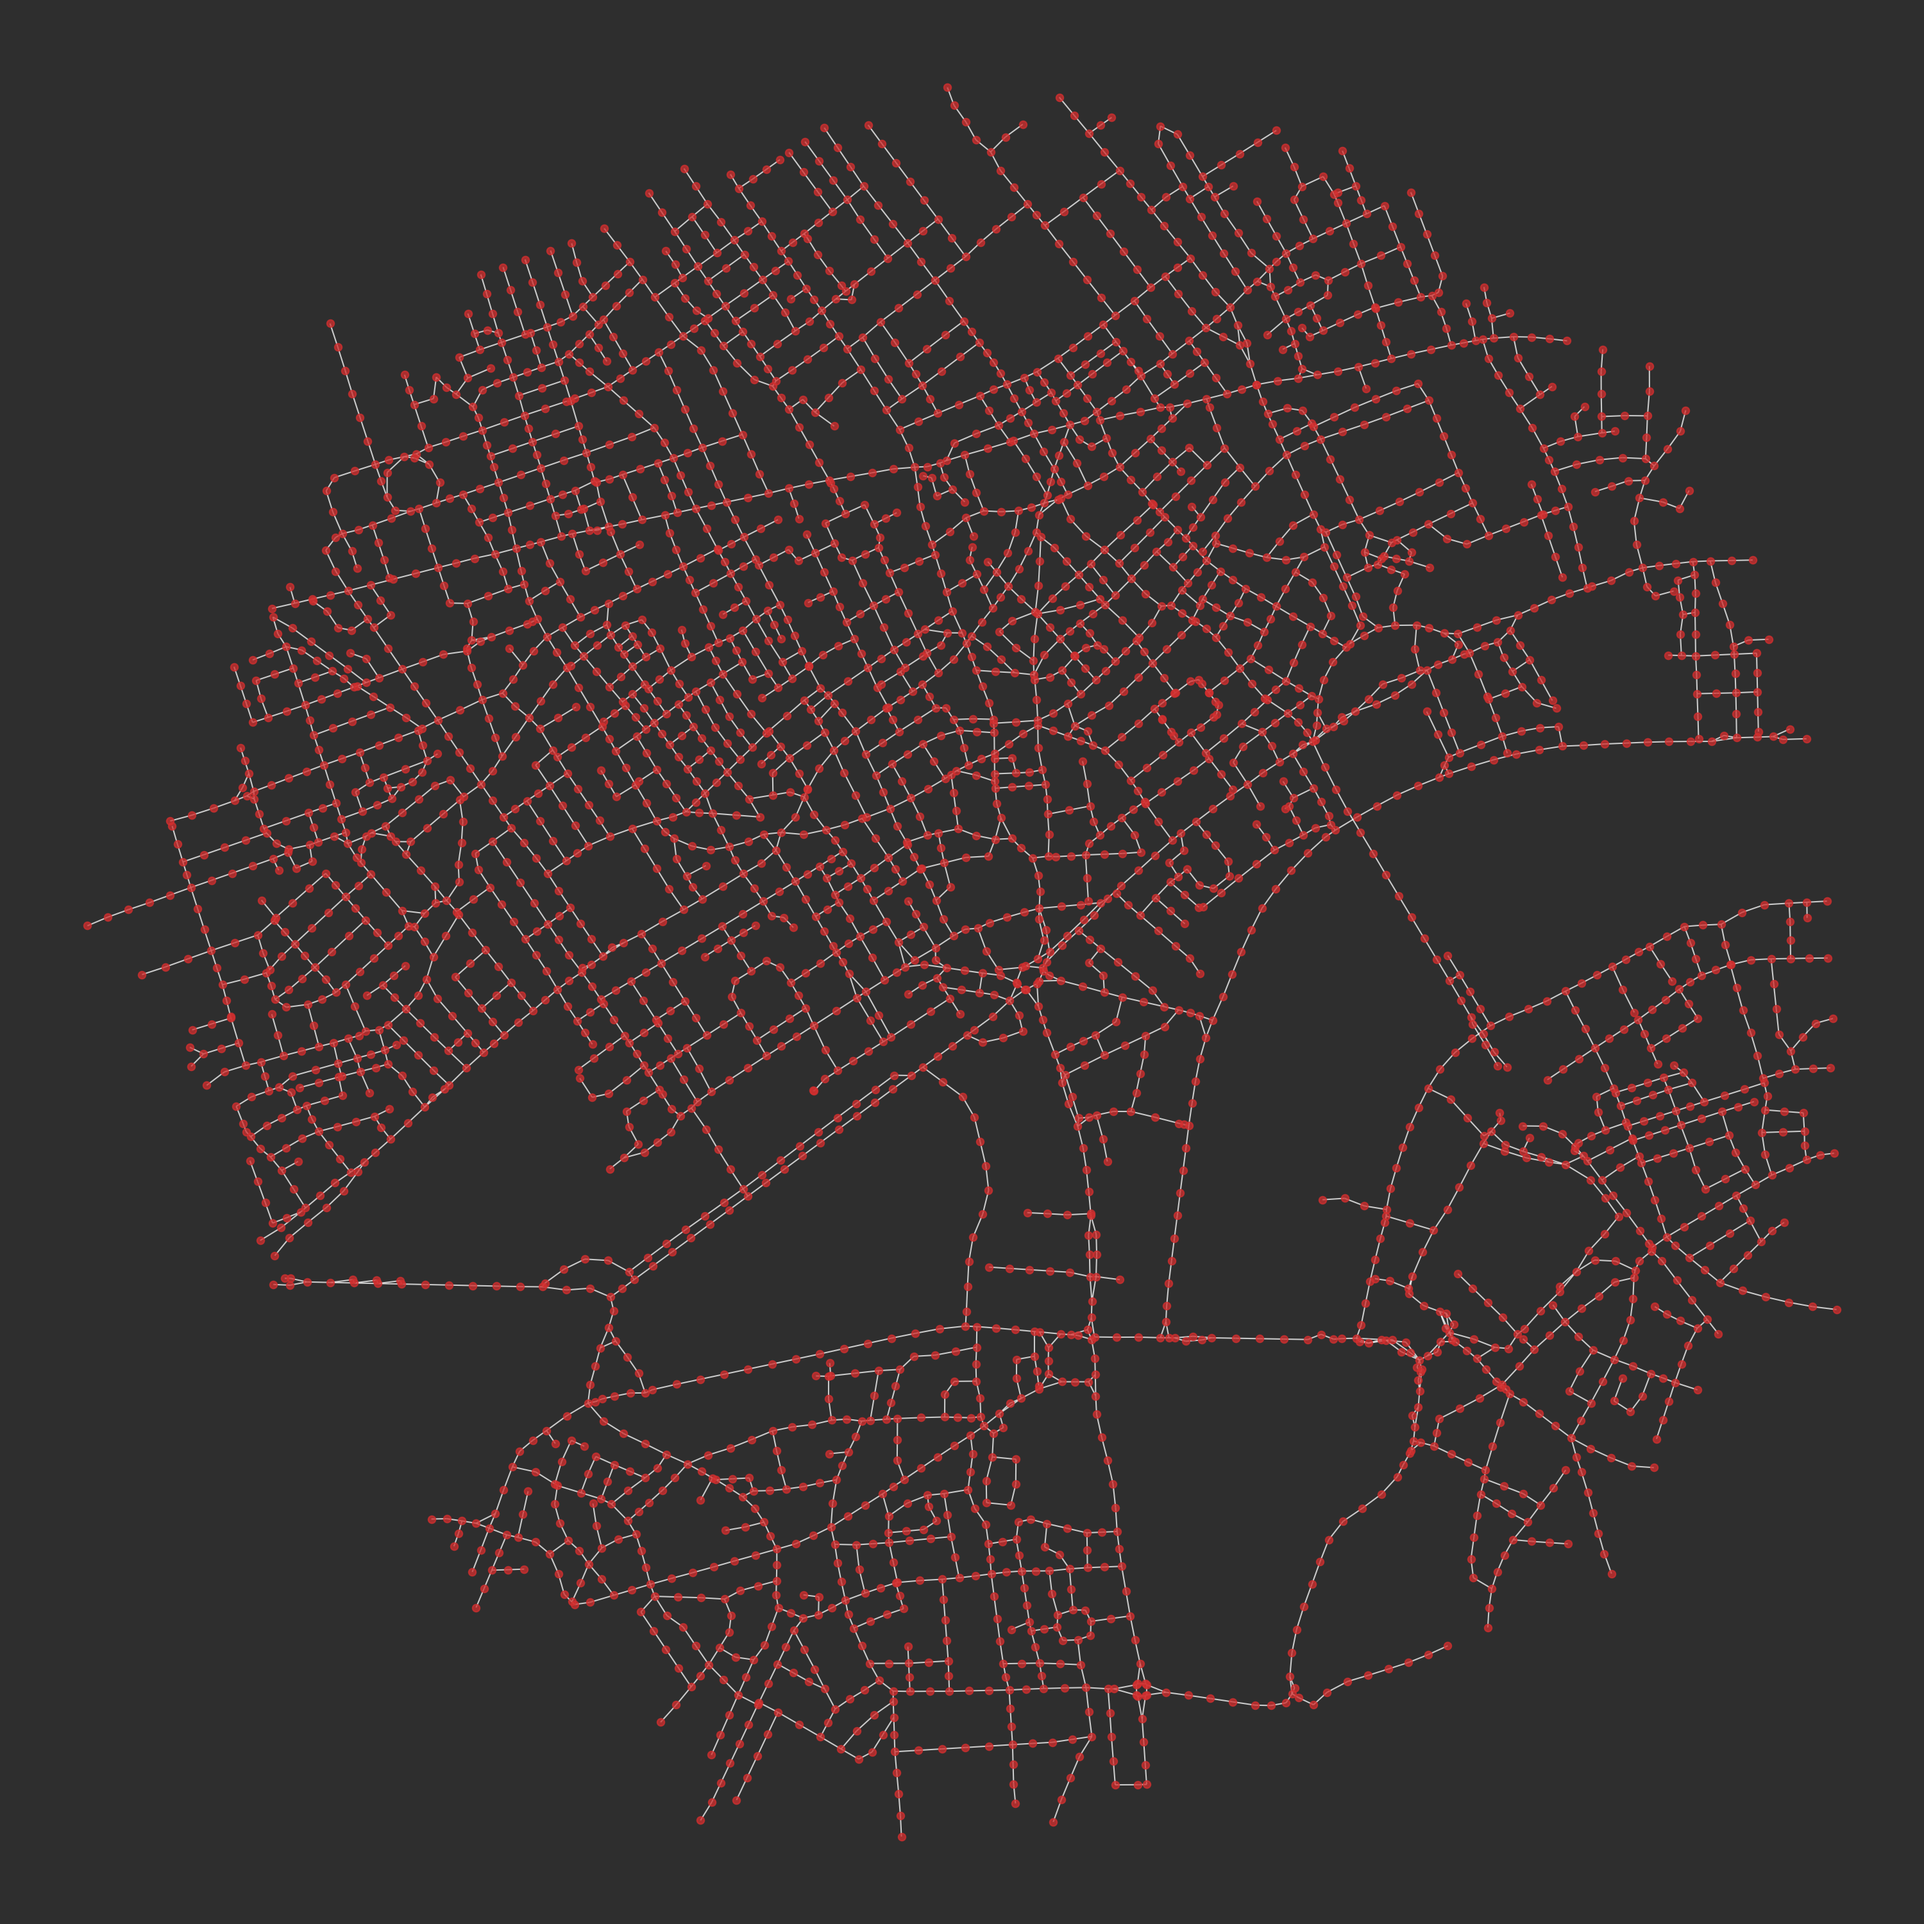
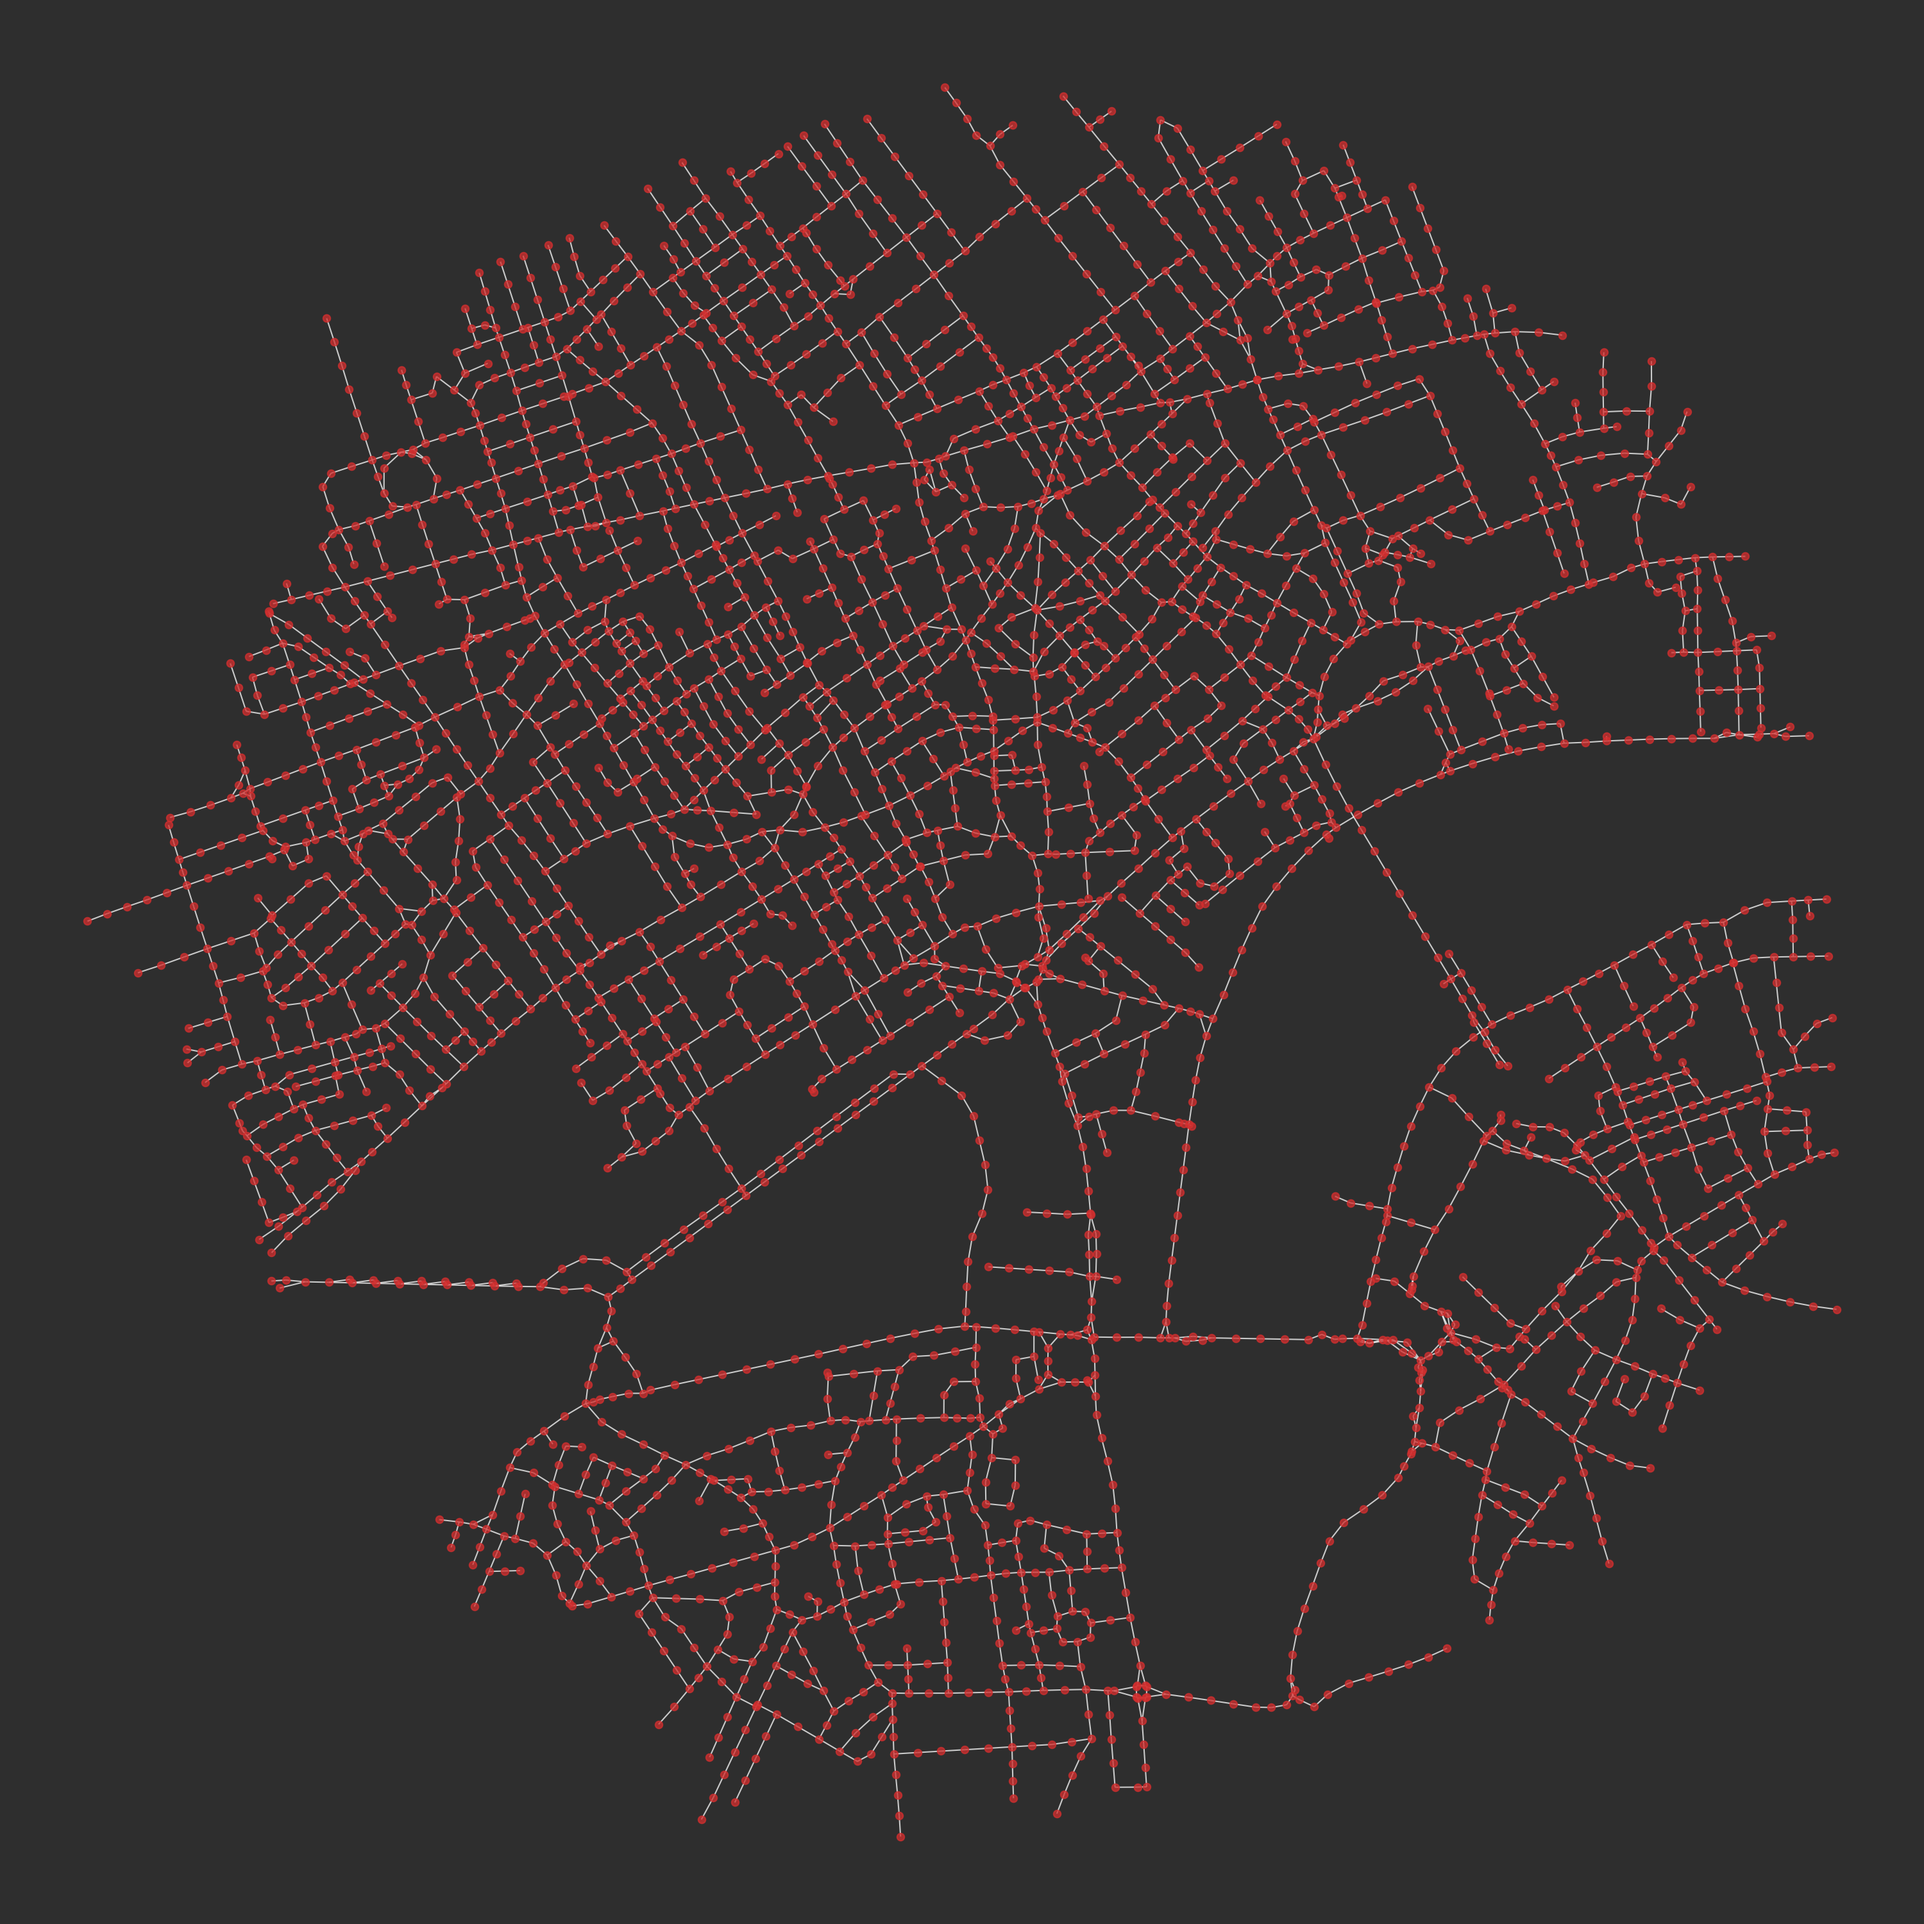
Docs.

diff --git a/docs/images/plots/guides/cleaning/plot.py b/docs/images/plots/guides/cleaning/plot.py
@@ -47,14 +47,14 @@ plt.clf()
 plot.plot_nX(G_utm, 'guides/cleaning/graph_raw.png', dpi=150, figsize=(20, 20))
 
 G_messy = graphs.nX_simple_geoms(G_utm)
-G_messy = graphs.nX_remove_filler_nodes(G_messy)
 G_messy = graphs.nX_remove_dangling_nodes(G_messy)
+G_messy = graphs.nX_remove_filler_nodes(G_messy)
 plt.cla()
 plt.clf()
 plot.plot_nX(G_messy, 'guides/cleaning/graph_topo.png', dpi=150, figsize=(20, 20))
 
-G_messy_decomp = graphs.nX_decompose(G_messy, 50)
-G_clean_parallel = graphs.nX_consolidate_parallel(G_messy_decomp)
+G_messy = graphs.nX_decompose(G_messy, 50)
+G_messy = graphs.nX_consolidate_parallel(G_messy)
 plt.cla()
 plt.clf()
-plot.plot_nX(G_clean_parallel, 'guides/cleaning/graph_consolidated.png', dpi=150, figsize=(20, 20))
+plot.plot_nX(G_messy, 'guides/cleaning/graph_consolidated.png', dpi=150, figsize=(20, 20))

diff --git a/docs/guide/cleaning.md b/docs/guide/cleaning.md
@@ -2,8 +2,8 @@ Graph cleaning
 ==============
 
 Certain sources of street network data offer high quality representations that work well for network analysis algorithms. The Ordnance Survey's [OS Open Roads](https://www.ordnancesurvey.co.uk/business-and-government/products/os-open-roads.html) dataset is a great example of such a dataset:
-- The network has been simplified to its essential topological structure: i.e. unnecessarily complex representations of intersections; on-ramps; split roadways; etc. have been reduced to a simpler representation concurring more readily with the core topological structure of street networks. Network representations focusing on completeness (e.g. for route way-finding, see [OS ITN Layer](https://www.ordnancesurvey.co.uk/business-and-government/help-and-support/products/itn-layer.html)) introduce an unnecessary level of complexity, serving to hinder rather than help network analysis algorithms: i.e. the extra extraneous detail can introduce unintuitive or irregular outcomes for shortest-path calculations;
-- The topology of the network is kept distinct from the geometry of the streets. Oftentimes, as can be seen with [Open Street Map](https://www.openstreetmap.org), extra nodes have been added to streets for the purpose of representing geometric twists and turns along a roadway. These extra nodes do not represent the topological structure of the network (e.g. intersections) and can thus lead to substantial distortions in the derivation of network centrality measures;
+- The network has been simplified to its essential structure: i.e. unnecessarily complex representations of intersections; on-ramps; split roadways; etc. have been reduced to a simpler representation concurring more readily with the core topological structure of street networks. Network representations focusing on completeness (e.g. for route way-finding, see [OS ITN Layer](https://www.ordnancesurvey.co.uk/business-and-government/help-and-support/products/itn-layer.html)) introduce an unnecessary level of complexity, serving to hinder rather than help network analysis algorithms: i.e. the extraneous detail can introduce unintuitive or irregular outcomes for shortest-path calculations;
+- The topology of the network is kept distinct from the geometry of the streets. Oftentimes, as can be seen with [Open Street Map](https://www.openstreetmap.org), additional nodes are added to streets for the purpose of representing geometric twists and turns along a roadway. These extra nodes can lead to distortions in the derivation of network centrality measures, because uneven intensities of node distribution can amplify or diminish the effect of calculations;
 - Bonus: It is open and free to use!
 
 When a high-quality source is available, it may be best not to attempt additional cleanup unless there is a particular reason to do so. On the other-hand, many indispensable sources of network information, particularly Open Street Map data, can be messy (for the purposes of network analysis). This section describes how such sources can be cleaned and prepared for subsequent analysis.
@@ -12,7 +12,7 @@ When a high-quality source is available, it may be best not to attempt additiona
 Downloading data
 ----------------
 
-This example will make use of OSM data downloaded from the [OSM API](https://wiki.openstreetmap.org/wiki/API). To keep things interesting, we'll pick Travalgar Square in London, which will be buffered and cleaned for a $1,600m$ radius.
+This example will make use of OSM data downloaded from the [OSM API](https://wiki.openstreetmap.org/wiki/API). To keep things interesting, let's pick Travalgar Square in London, which will be buffered and cleaned for a $1,600m$ radius.
 
 ::: warning Note
 The following example makes use of two excellent python modules: [`utm`](https://github.com/Turbo87/utm) for converting between `WGS` geographic coordinates and `UTM` projected coordinates; and [`shapely`](https://github.com/Toblerity/Shapely) for generating and manipulating geometry.
@@ -62,7 +62,7 @@ You may want to experiment with the filtering applied to the OSM query. See the 
 Generating a graph
 ------------------
 
-Once the data has been downloaded, `cityseer.util` can be used to load the data into a NetworkX graph. The graph should be converted from WGS to UTM coordinates prior to any further processing.
+Once the data has been downloaded, `cityseer.util` can be used to load and subsequently clean the network. The graph should be converted from WGS to UTM coordinates prior to further processing.
 
 ```python
 from cityseer.util import graphs, plot
@@ -89,20 +89,20 @@ At this stage, the raw OSM graph is going to look a bit messy. Note how that nod
 # the raw osm nodes denote the road geometries by the placement of nodes
 # the first step will generate explicit linestring geometries for each street edge
 G = graphs.nX_simple_geoms(G_utm)
-# the next step, will now strip these "filler-nodes" from the graph
-# the associated geometries will be welded into continuous linestrings
-# the new linestrings will be assigned to the newly consolidated topological links
-G = graphs.nX_remove_filler_nodes(G)
 # OSM graphs will often have "stubs", e.g. at entrances to buildings or parking lots
 # these will now be removed, and can be fine-tuned with the despine parameter.
 # The removed_disconnected flag will removed isolated network components
 # i.e. disconnected portions of network that are not joined to the main street network
 G = graphs.nX_remove_dangling_nodes(G, despine=25, remove_disconnected=True)
+# strip the "filler-nodes" from the graph
+# the associated geometries will be welded into continuous linestrings
+# the new linestrings will be assigned to the newly consolidated topological links
+G = graphs.nX_remove_filler_nodes(G)
 
 plot.plot_nX(G, figsize=(20, 20), dpi=150)
 ```
 
-<ImageModal :path="require('../images/plots/guides/cleaning/graph_topo.png')" alt='OSM graph topology' caption='The OSM graph after conversion to a purer topological representation. © OpenStreetMap contributors.'></ImageModal>
+<ImageModal :path="require('../images/plots/guides/cleaning/graph_topo.png')" alt='OSM graph topology' caption='The OSM graph after conversion to a topological representation. © OpenStreetMap contributors.'></ImageModal>
 
 ::: warning Note
 At this point it may initially appear that the roadway geometries have now gone missing. However, this information is still present in the `LineString` geometries assigned to each street edge. Put differently, the plotted representation is now topological, not geometric.
